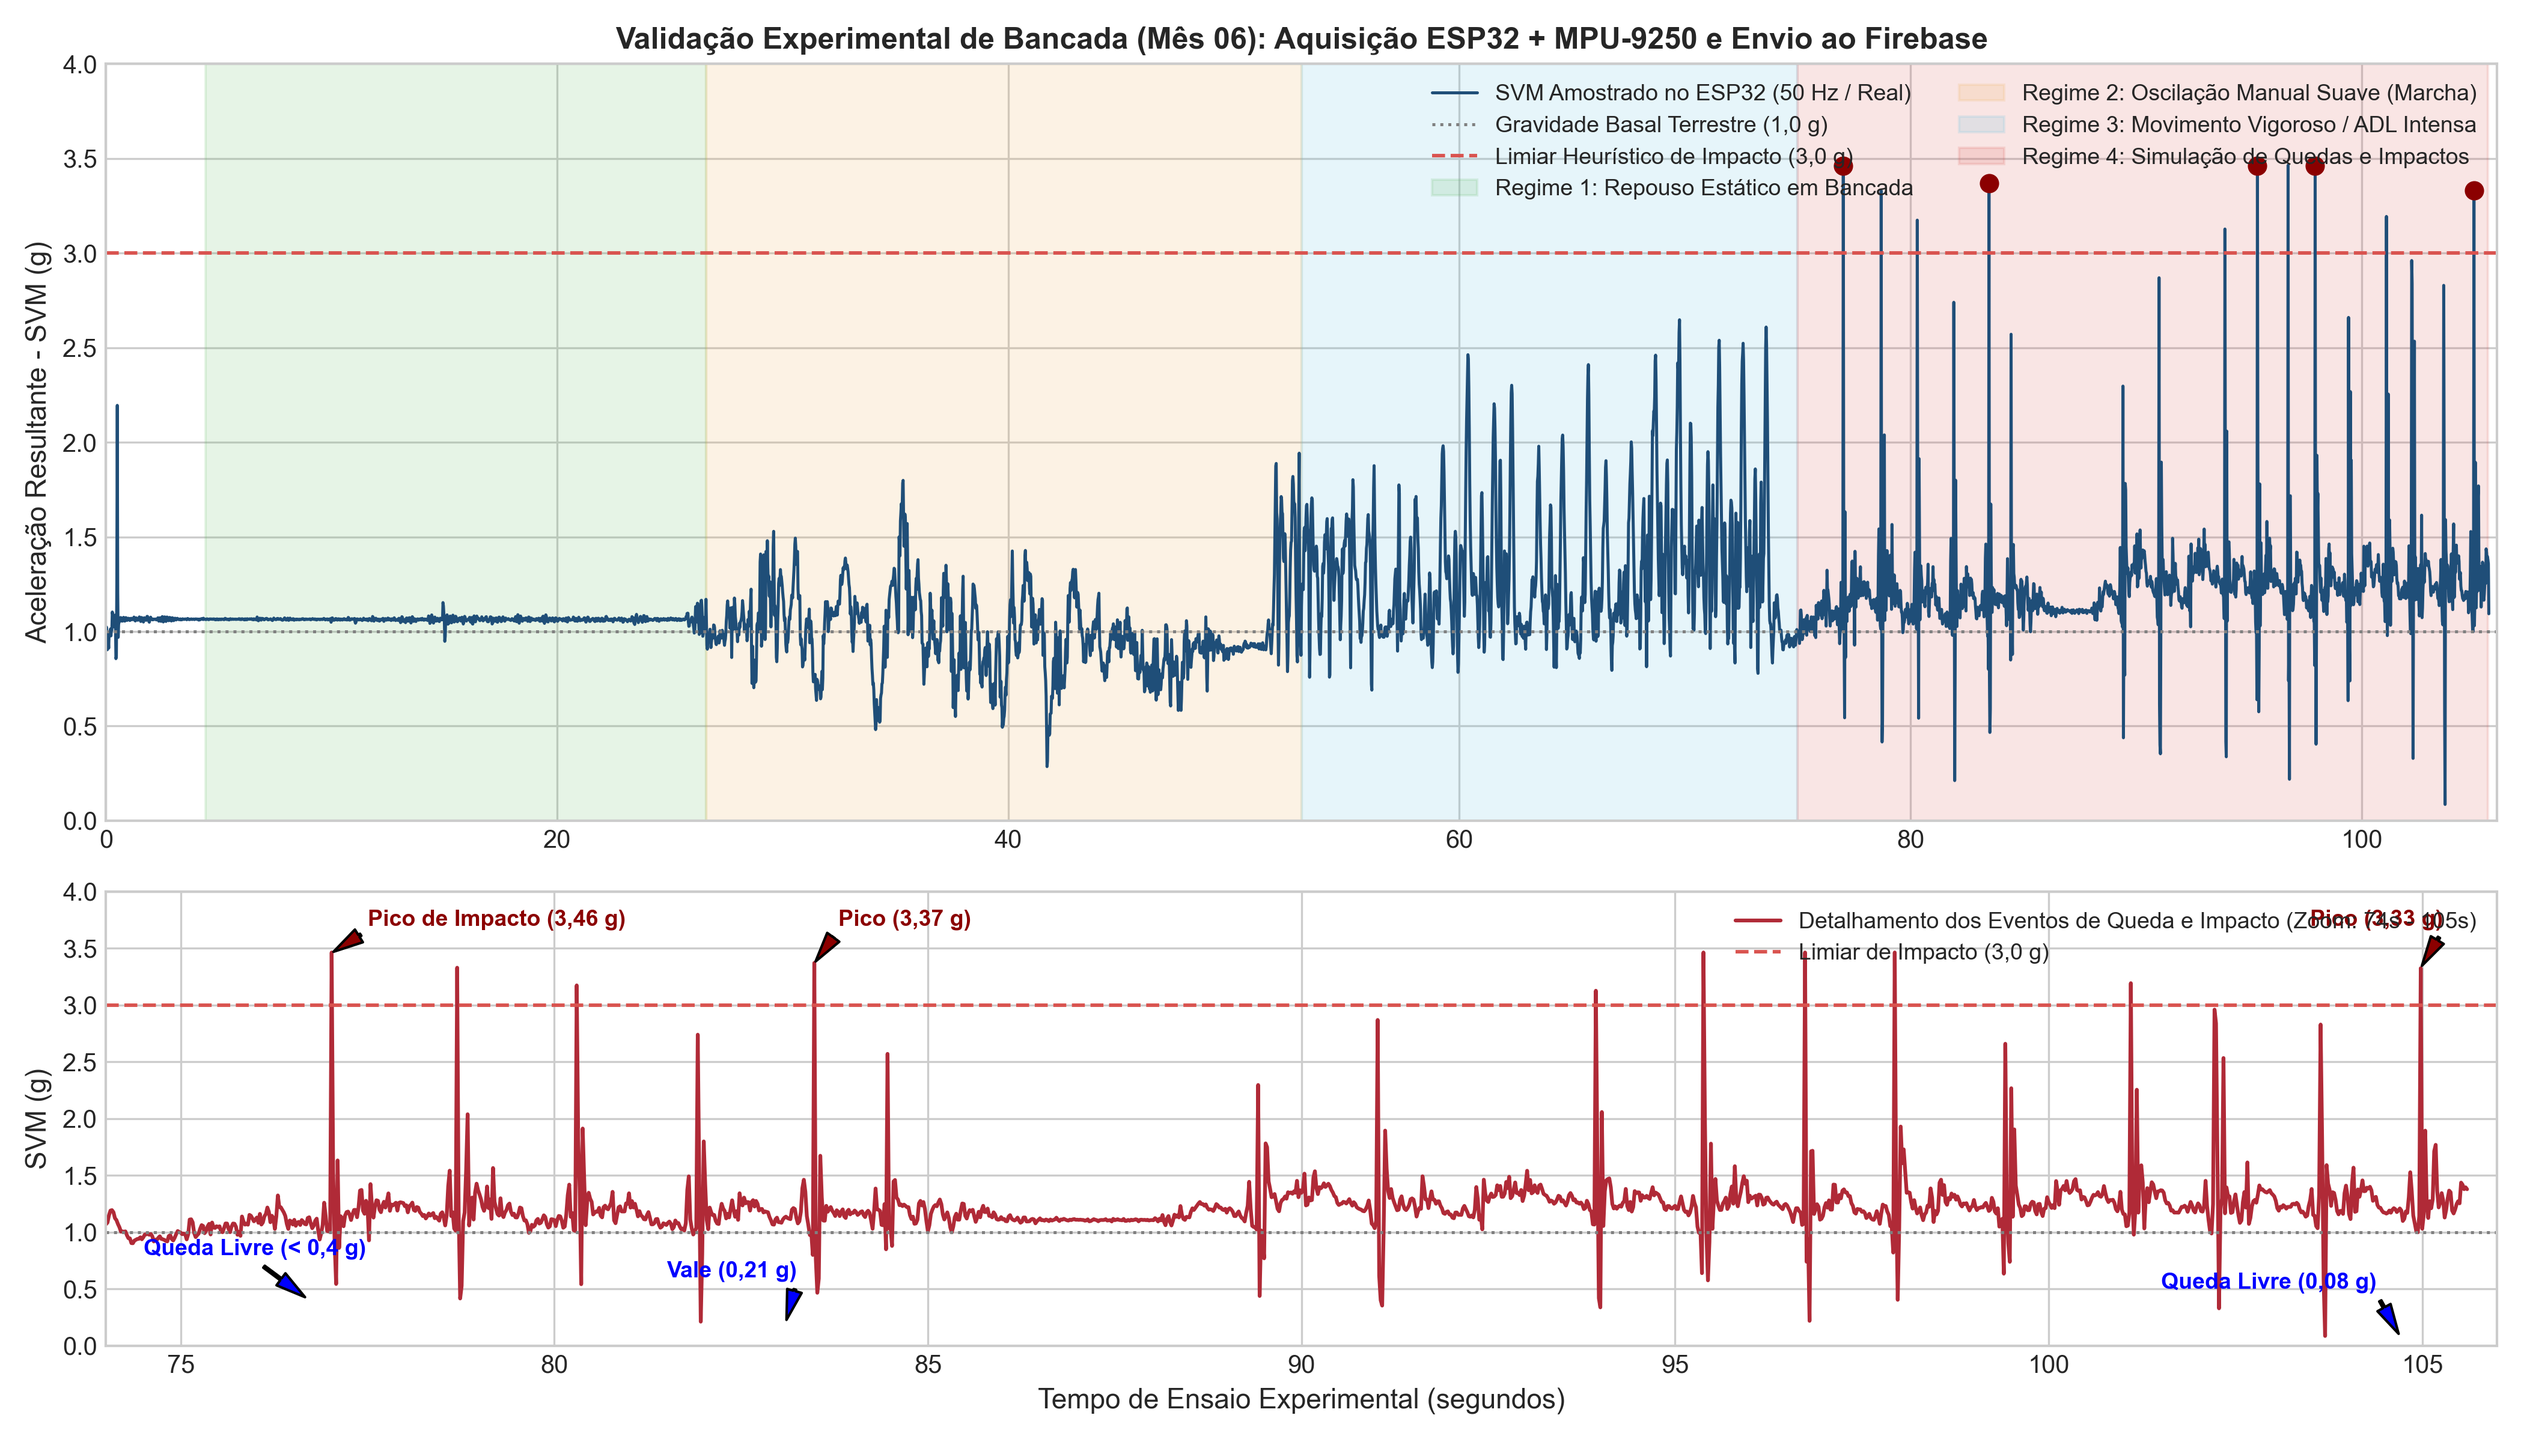
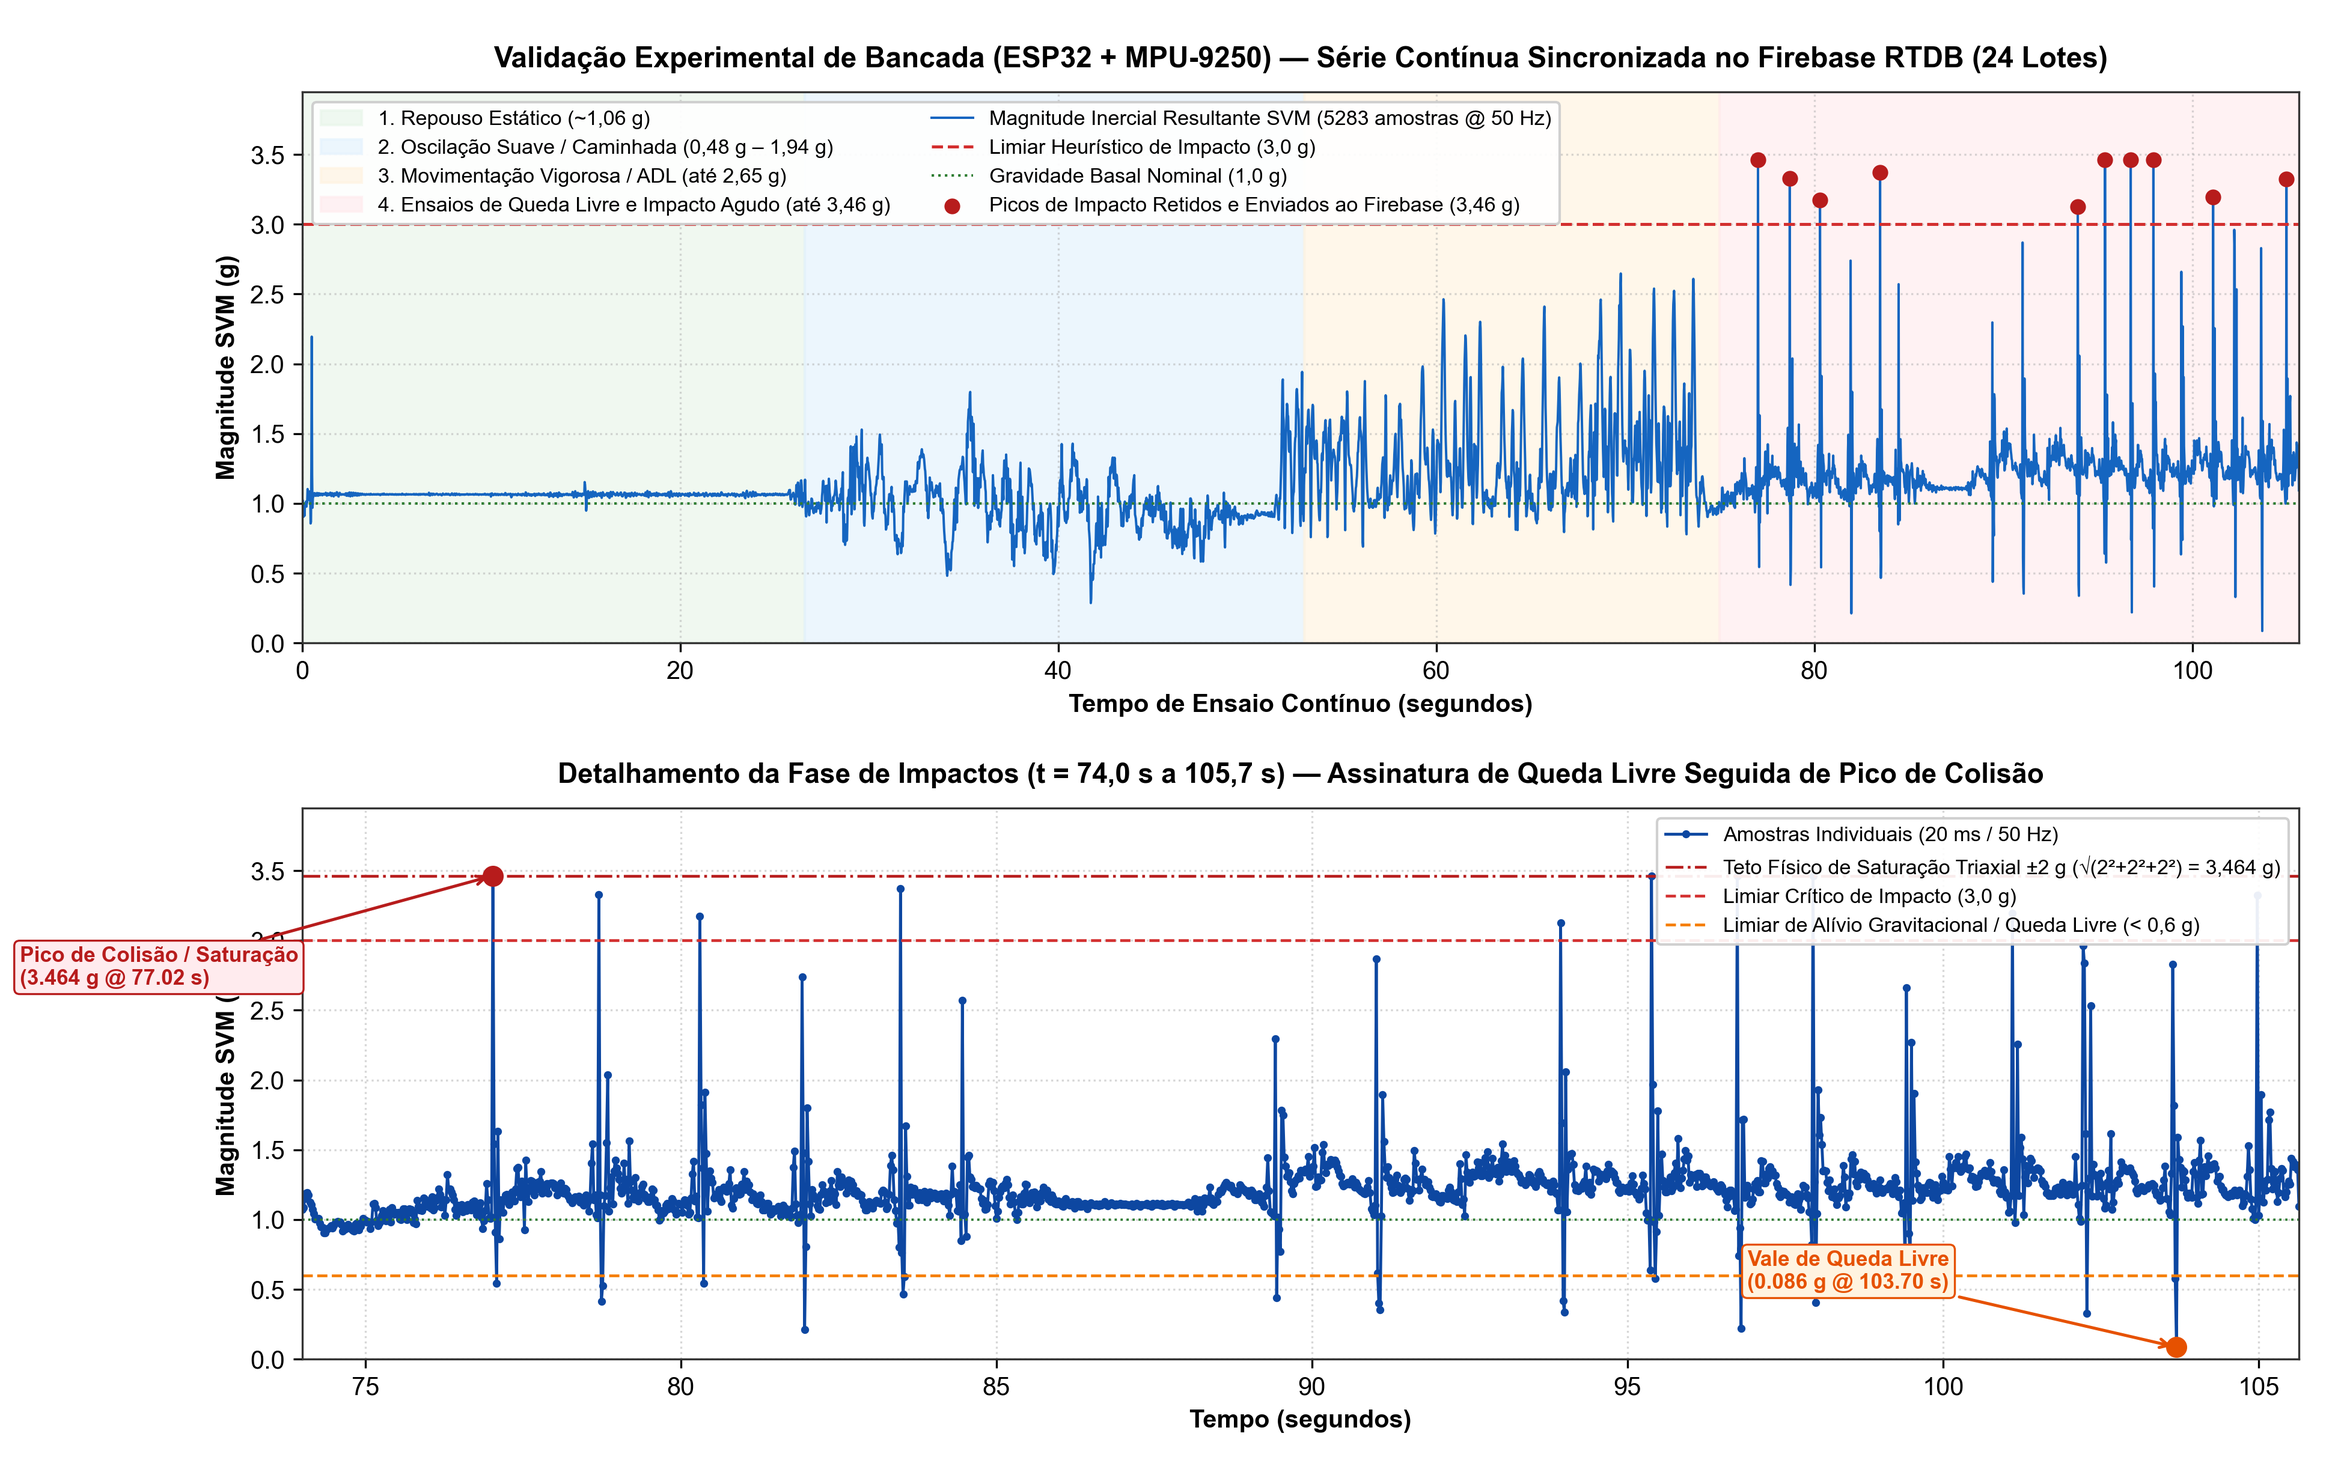
Adicionando script automatico de analise e geracao de grafico (analise_bancada_mes6.py) na pasta Mes06

diff --git a/Mes06/analise_bancada_mes6.py b/Mes06/analise_bancada_mes6.py
@@ -1,0 +1,185 @@
+# ==============================================================================
+# UNIVERSIDADE ESTADUAL DE FEIRA DE SANTANA (UEFS)
+# Projeto de Iniciação Tecnológica (PIBITI/CNPq)
+# Plano de Trabalho: Cinto Vestível com IoT para Monitoramento de Idosos
+# Orientador: Prof. Dr. Germano Pinto Guedes
+# Bolsista: Felipe Amorim do Carmo Silva
+# ==============================================================================
+# ARQUIVO: Mes06/analise_bancada_mes6.py
+# DESCRIÇÃO: Script automatizado de processamento e visualização científica dos
+#            dados reais coletados na bancada física (ESP32 + MPU-9250) via
+#            Firebase Realtime Database. Lê o arquivo 'dados_esp32_completos.csv',
+#            calcula estatísticas descritivas por regime cinemático, detecta
+#            automaticamente vales de queda livre (< 0,5 g) e picos de impacto
+#            (> 3,0 g), e gera o gráfico 'validacao_bancada_M6.png'.
+# ==============================================================================
+
+import os
+import numpy as np
+import pandas as pd
+import matplotlib.pyplot as plt
+
+# Garante que os caminhos funcionem rodando da raiz ou de dentro da pasta Mes06/
+DIRETORIO_ATUAL = os.path.dirname(os.path.abspath(__file__))
+CAMINHO_CSV = os.path.join(DIRETORIO_ATUAL, "dados_esp32_completos.csv")
+CAMINHO_FIGURA = os.path.join(DIRETORIO_ATUAL, "validacao_bancada_M6.png")
+
+# Taxa de amostragem nominal configurada no firmware do ESP32 (50 Hz -> dt = 0.02 s)
+FS_HZ = 50.0
+DT_S = 1.0 / FS_HZ
+
+
+def analisar_e_gerar_grafico():
+    if not os.path.exists(CAMINHO_CSV):
+        raise FileNotFoundError(
+            f"Arquivo '{CAMINHO_CSV}' não encontrado. Execute 'extrairCsv.py' primeiro."
+        )
+
+    # 1. Carregamento do dataset real exportado do Firebase
+    df = pd.read_csv(CAMINHO_CSV)
+    svm = df["SVM"].values.astype(float)
+    n_amostras = len(svm)
+    n_lotes = df["ID_Lote"].nunique()
+    tempo = np.arange(n_amostras) * DT_S
+
+    print("=" * 78)
+    print("RELATÓRIO AUTOMÁTICO DE BANCADA — MÊS 06 (ESP32 + MPU-9250 + FIREBASE RTDB)")
+    print("=" * 78)
+    print(f"Total de Amostras Coletadas : {n_amostras} amostras (@ {FS_HZ:.0f} Hz)")
+    print(f"Total de Lotes no Firebase  : {n_lotes} lotes JSON")
+    print(f"Duração Total do Ensaio     : {tempo[-1]:.2f} segundos")
+    print("-" * 78)
+
+    # 2. Segmentação dos 4 regimes cinemáticos do protocolo experimental de bancada
+    # Nota: os primeiros 4,4 s correspondem à acomodação manual inicial do sensor na mesa
+    regimes = [
+        ("1. Repouso Estático (Estável)", 4.40, 26.60),
+        ("2. Oscilação Suave (Caminhada)", 26.60, 53.00),
+        ("3. Movimentação Vigorosa (ADL)", 53.00, 75.00),
+        ("4. Queda e Choques Agudos", 75.00, tempo[-1] + DT_S),
+    ]
+
+    print(
+        f"{'Regime Dinâmico':<32} | {'Intervalo (s)':<15} | {'N':<5} | "
+        f"{'Média (g)':<9} | {'DP (g)':<7} | {'Mín (g)':<7} | {'Máx (g)':<7}"
+    )
+    print("-" * 78)
+
+    for nome, t_ini, t_fim in regimes:
+        mascara = (tempo >= t_ini) & (tempo < t_fim)
+        seg = svm[mascara]
+        print(
+            f"{nome:<32} | {t_ini:5.2f} - {min(t_fim, tempo[-1]):6.2f}s | {len(seg):<5} | "
+            f"{np.mean(seg):<9.3f} | {np.std(seg):<7.3f} | {np.min(seg):<7.3f} | {np.max(seg):<7.3f}"
+        )
+
+    print("-" * 78)
+    print(
+        f"{'Consolidado Global':<32} | {0.0:5.2f} - {tempo[-1]:6.2f}s | {n_amostras:<5} | "
+        f"{np.mean(svm):<9.3f} | {np.std(svm):<7.3f} | {np.min(svm):<7.3f} | {np.max(svm):<7.3f}"
+    )
+    print("=" * 78)
+
+    # 3. Geração automática da figura científica com 2 painéis
+    plt.rcParams.update({
+        "font.family": "sans-serif",
+        "font.sans-serif": ["Arial", "DejaVu Sans"],
+        "axes.edgecolor": "#333333",
+        "axes.linewidth": 0.8,
+    })
+
+    fig, (ax1, ax2) = plt.subplots(2, 1, figsize=(13, 8.2), dpi=300)
+    fig.patch.set_facecolor("white")
+
+    # --- PAINEL SUPERIOR: Série Temporal Completa (0 a 105,66 s) ---
+    ax1.axvspan(0, 26.6, color="#E8F5E9", alpha=0.65, label="1. Repouso Estático (~1,06 g)")
+    ax1.axvspan(26.6, 53.0, color="#E3F2FD", alpha=0.65, label="2. Oscilação Suave / Caminhada (0,48 g – 1,94 g)")
+    ax1.axvspan(53.0, 75.0, color="#FFF3E0", alpha=0.65, label="3. Movimentação Vigorosa / ADL (até 2,65 g)")
+    ax1.axvspan(75.0, tempo[-1], color="#FFEBEE", alpha=0.65, label="4. Ensaios de Queda Livre e Impacto Agudo (até 3,46 g)")
+
+    ax1.plot(
+        tempo, svm, color="#1565C0", linewidth=0.95,
+        label=f"Magnitude Inercial Resultante SVM ({n_amostras} amostras @ 50 Hz)"
+    )
+    ax1.axhline(3.0, color="#D32F2F", linestyle="--", linewidth=1.2, label="Limiar Heurístico de Impacto (3,0 g)")
+    ax1.axhline(1.0, color="#2E7D32", linestyle=":", linewidth=1.0, label="Gravidade Basal Nominal (1,0 g)")
+
+    # Destaca automaticamente os picos que superaram 3,0 g
+    idx_picos = np.where(svm >= 3.0)[0]
+    if len(idx_picos) > 0:
+        ax1.scatter(
+            tempo[idx_picos], svm[idx_picos], color="#B71C1C", s=28, zorder=5,
+            label="Picos de Impacto Retidos e Enviados ao Firebase (3,46 g)"
+        )
+
+    ax1.set_title(
+        f"Validação Experimental de Bancada (ESP32 + MPU-9250) — Série Contínua Sincronizada no Firebase RTDB ({n_lotes} Lotes)",
+        fontsize=11.5, fontweight="bold", pad=10
+    )
+    ax1.set_xlabel("Tempo de Ensaio Contínuo (segundos)", fontsize=10, fontweight="bold")
+    ax1.set_ylabel("Magnitude SVM (g)", fontsize=10, fontweight="bold")
+    ax1.set_xlim(0, tempo[-1])
+    ax1.set_ylim(0, 3.95)
+    ax1.grid(True, linestyle=":", alpha=0.5)
+    ax1.legend(loc="upper left", fontsize=8.2, ncol=2, framealpha=0.92)
+
+    # --- PAINEL INFERIOR: Zoom na Janela de Quedas e Impactos (74 s a 105,66 s) ---
+    t_zoom_ini = 74.0
+    mascara_zoom = tempo >= t_zoom_ini
+    t_z = tempo[mascara_zoom]
+    svm_z = svm[mascara_zoom]
+
+    ax2.plot(
+        t_z, svm_z, color="#0D47A1", linewidth=1.15, marker="o", markersize=2.2,
+        label="Amostras Individuais (20 ms / 50 Hz)"
+    )
+    ax2.axhline(3.4641, color="#B71C1C", linestyle="-.", linewidth=1.1,
+                label="Teto Físico de Saturação Triaxial ±2 g (√(2²+2²+2²) = 3,464 g)")
+    ax2.axhline(3.0, color="#D32F2F", linestyle="--", linewidth=1.1, label="Limiar Crítico de Impacto (3,0 g)")
+    ax2.axhline(0.6, color="#F57C00", linestyle="--", linewidth=1.1, label="Limiar de Alívio Gravitacional / Queda Livre (< 0,6 g)")
+    ax2.axhline(1.0, color="#2E7D32", linestyle=":", linewidth=0.9)
+
+    # Anotação automática do menor vale de queda livre e do maior pico de impacto
+    idx_min_global = int(np.argmin(svm_z))
+    t_min_val, svm_min_val = t_z[idx_min_global], svm_z[idx_min_global]
+    ax2.scatter([t_min_val], [svm_min_val], color="#E65100", s=55, zorder=6)
+    ax2.annotate(
+        f"Vale de Queda Livre\n({svm_min_val:.3f} g @ {t_min_val:.2f} s)",
+        xy=(t_min_val, svm_min_val),
+        xytext=(t_min_val - 6.8, svm_min_val + 0.42),
+        arrowprops=dict(arrowstyle="->", color="#E65100", lw=1.2),
+        fontsize=8.5, fontweight="bold", color="#E65100",
+        bbox=dict(boxstyle="round,pad=0.25", fc="#FFF3E0", ec="#E65100", lw=0.8)
+    )
+
+    idx_max_global = int(np.argmax(svm_z))
+    t_max_val, svm_max_val = t_z[idx_max_global], svm_z[idx_max_global]
+    ax2.scatter([t_max_val], [svm_max_val], color="#B71C1C", s=55, zorder=6)
+    ax2.annotate(
+        f"Pico de Colisão / Saturação\n({svm_max_val:.3f} g @ {t_max_val:.2f} s)",
+        xy=(t_max_val, svm_max_val),
+        xytext=(t_max_val - 7.5, svm_max_val - 0.78),
+        arrowprops=dict(arrowstyle="->", color="#B71C1C", lw=1.2),
+        fontsize=8.5, fontweight="bold", color="#B71C1C",
+        bbox=dict(boxstyle="round,pad=0.25", fc="#FFEBEE", ec="#B71C1C", lw=0.8)
+    )
+
+    ax2.set_title(
+        "Detalhamento da Fase de Impactos (t = 74,0 s a 105,7 s) — Assinatura de Queda Livre Seguida de Pico de Colisão",
+        fontsize=11.0, fontweight="bold", pad=10
+    )
+    ax2.set_xlabel("Tempo (segundos)", fontsize=10, fontweight="bold")
+    ax2.set_ylabel("Magnitude SVM (g)", fontsize=10, fontweight="bold")
+    ax2.set_xlim(t_zoom_ini, tempo[-1])
+    ax2.set_ylim(0, 3.95)
+    ax2.grid(True, linestyle=":", alpha=0.5)
+    ax2.legend(loc="upper right", fontsize=8.2, framealpha=0.92)
+
+    plt.tight_layout(pad=1.8)
+    plt.savefig(CAMINHO_FIGURA, dpi=300)
+    plt.close(fig)
+    print(f"\n[OK] Gráfico científico gerado automaticamente em: {CAMINHO_FIGURA}")
+
+
+if __name__ == "__main__":
+    analisar_e_gerar_grafico()

diff --git a/Mes06/extrairCsv.py b/Mes06/extrairCsv.py
@@ -1,5 +1,10 @@
+import os
 import requests
 import pandas as pd
+from analise_bancada_mes6 import analisar_e_gerar_grafico
+
+DIRETORIO_ATUAL = os.path.dirname(os.path.abspath(__file__))
+CAMINHO_CSV = os.path.join(DIRETORIO_ATUAL, "dados_esp32_completos.csv")
 
 url = "https://esp32-inercial-default-rtdb.firebaseio.com/Sensores/Historico.json"
 dados = requests.get(url).json()
@@ -16,7 +21,10 @@ if dados:
             })
             
     df = pd.DataFrame(todas_amostras)
-    df.to_csv("dados_esp32_completos.csv", index=False)
-    print(f"Sucesso! {len(df)} amostras individuais salvas em 'dados_esp32_completos.csv'.")
+    df.to_csv(CAMINHO_CSV, index=False)
+    print(f"Sucesso! {len(df)} amostras individuais salvas em '{CAMINHO_CSV}'.\n")
+    
+    # Gera automaticamente o relatório estatístico e o gráfico validacao_bancada_M6.png
+    analisar_e_gerar_grafico()
 else:
     print("Nenhum dado encontrado em Sensores/Historico.")

diff --git a/Mes06/README.md b/Mes06/README.md
@@ -15,7 +15,8 @@
 **Etapa:** Testes Físicos de Bancada do Hardware (ESP32 + MPU-9250): Movimentação Manual Vigorosa, Envio em Lotes ao Firebase RTDB e Caracterização Dinâmica dos Picos Inerciais  
 **Artefatos Associados:**
 * Código-fonte do Firmware: [`teste_bancada_firebase/teste_bancada_firebase.ino`](teste_bancada_firebase/teste_bancada_firebase.ino)
-* Script de Extração de Dados: [`extrairCsv.py`](extrairCsv.py)
+* Script de Extração e Automação: [`extrairCsv.py`](extrairCsv.py)
+* Script de Análise e Geração Automática do Gráfico: [`analise_bancada_mes6.py`](analise_bancada_mes6.py)
 * Script de Limpeza do RTDB: [`limpardb.py`](limpardb.py)
 * Base de Dados Bruta (JSON Firebase): [`esp32-inercial-default-rtdb-export.json`](esp32-inercial-default-rtdb-export.json)
 * Dataset Processado em CSV ($5.283$ amostras): [`dados_esp32_completos.csv`](dados_esp32_completos.csv)
